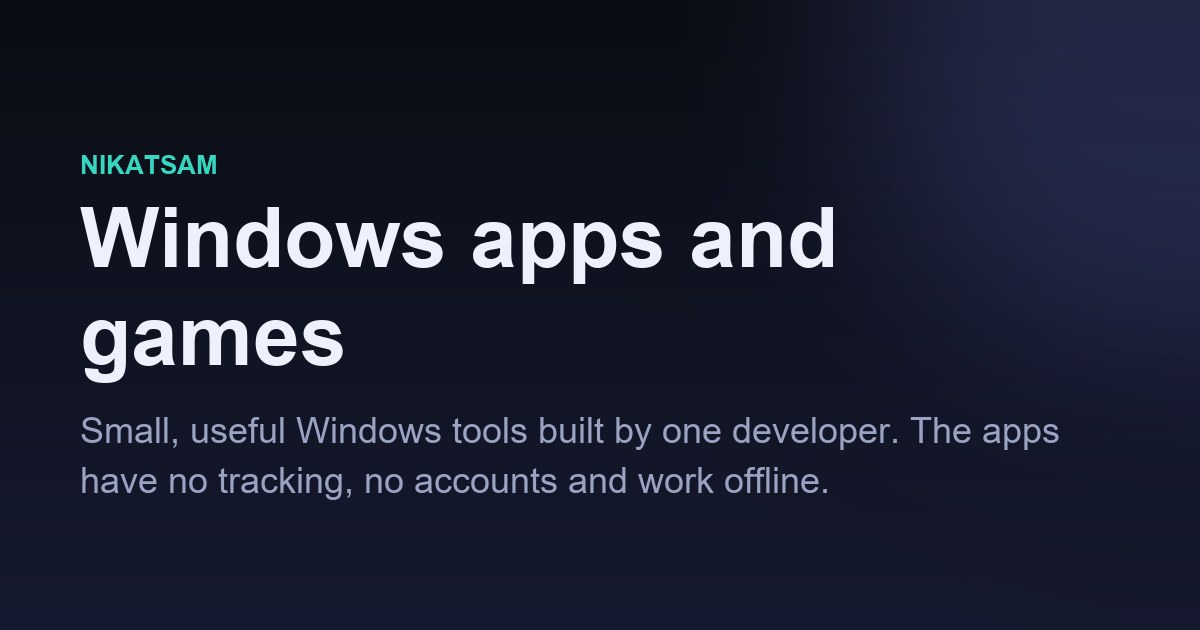
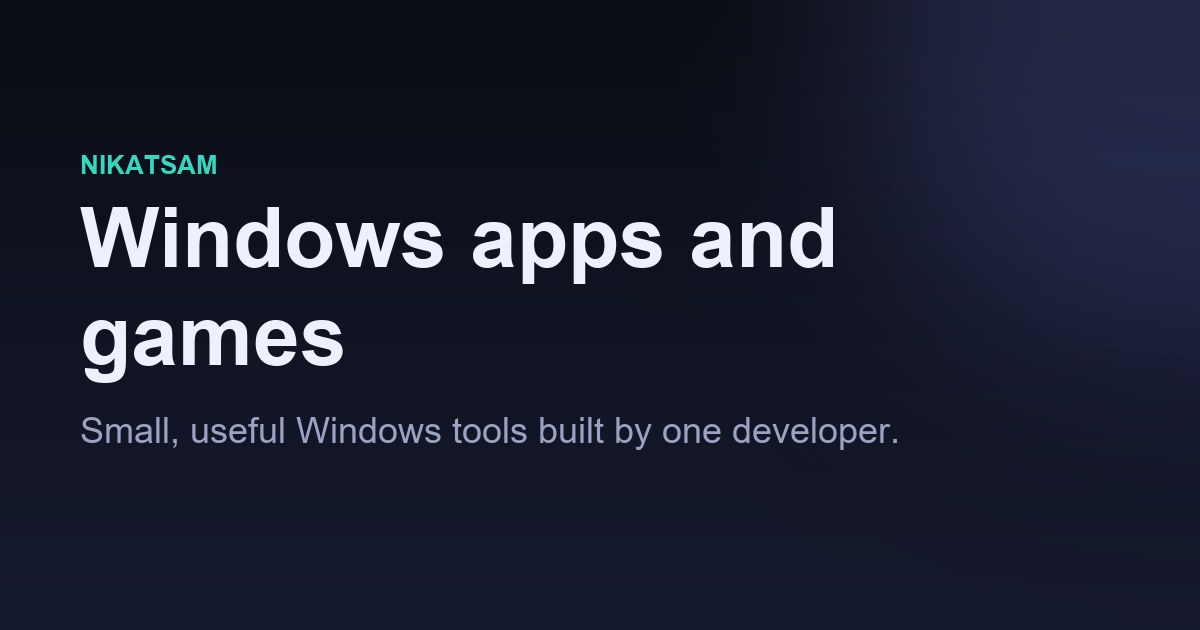
Tower Defence Riftward is live on the Microsoft Store; social images without privacy line

Changed region(s): [[0.0617, 0.7238, 0.6783, 0.7841], [0.74, 0.6635, 0.8942, 0.7238]]

diff --git a/index.html b/index.html
@@ -311,7 +311,7 @@
           <figure class="preview"><img src="assets/previews/tower-defence-riftward.webp" alt="Screenshot of the Tower Defence Riftward website" width="960" height="600" loading="lazy"></figure>
           <div class="card-top">
             <span class="badge">Game</span>
-            <span class="status soon">Coming to Store</span>
+            <span class="status live">Live</span>
           </div>
           <h3>Tower Defence Riftward</h3>
           <p class="tagline">A tower defence campaign of elemental sieges across four routes and sixty waves.</p>
@@ -472,13 +472,14 @@
     </dialog>
     <dialog class="project-dialog" id="dlg-tower-defence-riftward" aria-labelledby="dlg-tower-defence-riftward-title">
       <form method="dialog" class="dialog-close"><button class="btn btn-ghost" value="close">Close</button></form>
-      <p class="eyebrow">Game · <span class="status soon">Coming to Store</span></p>
+      <p class="eyebrow">Game · <span class="status live">Live</span></p>
       <h2 id="dlg-tower-defence-riftward-title">Tower Defence Riftward</h2>
       <p class="lead">Plan your defences across four routes, combine nine tower families and hold out through sixty escalating waves in a single-player campaign.</p>
       <p class="audience"><strong>Who it is for:</strong> For tower defence fans who want to hold the line against an elemental siege.</p>
       <h3>What it does</h3><ul class="facts"><li>A single-player campaign built around elemental towers</li><li>Choose from four routes</li><li>Nine families of towers to build and combine</li><li>Sixty waves of escalating attacks</li></ul>
       
       <div class="dialog-links">
+          <a class="btn btn-primary" href="https://apps.microsoft.com/detail/9N5G2QPG34F7">Microsoft Store</a>
           <a class="btn btn-ghost" href="https://nikatsam.github.io/WINGAME_TD_RIFTWARD_WEBSITE/">Visit website</a>
           <a class="btn btn-ghost" href="apps/tower-defence-riftward/">Full page</a>
           <a class="btn btn-ghost" href="https://github.com/nikatsam/WINGAME_TD_RIFTWARD_WEBSITE/issues/new?template=bug_report.md&title=Bug:%20">Report a bug</a>

diff --git a/apps/tower-defence-riftward/index.html b/apps/tower-defence-riftward/index.html
@@ -30,7 +30,8 @@
       "name": "Nikatsam",
       "url": "https://nikatsam.github.io/"
     },
-    "url": "https://nikatsam.github.io/apps/tower-defence-riftward/"
+    "url": "https://nikatsam.github.io/apps/tower-defence-riftward/",
+    "installUrl": "https://apps.microsoft.com/detail/9N5G2QPG34F7"
   }
   </script>
   <script type="application/ld+json">
@@ -72,14 +73,14 @@
       </ol>
     </nav>
     <p class="back"><a class="btn btn-ghost" href="../../#projects">&larr; Back to all projects</a></p>
-    <p class="eyebrow">Game · <span class="status soon">Coming to Store</span></p>
+    <p class="eyebrow">Game · <span class="status live">Live</span></p>
     <h1>Tower Defence Riftward</h1>
     <p class="lead">Plan your defences across four routes, combine nine tower families and hold out through sixty escalating waves in a single-player campaign.</p>
     <p class="audience"><strong>Who it is for:</strong> For tower defence fans who want to hold the line against an elemental siege.</p>
     <h2>What it does</h2><ul class="facts"><li>A single-player campaign built around elemental towers</li><li>Choose from four routes</li><li>Nine families of towers to build and combine</li><li>Sixty waves of escalating attacks</li></ul>
     
     <div class="cta-row">
-        
+        <a class="btn btn-primary" href="https://apps.microsoft.com/detail/9N5G2QPG34F7">Get it on Microsoft Store</a>
         <a class="btn btn-ghost" href="https://nikatsam.github.io/WINGAME_TD_RIFTWARD_WEBSITE/">Visit the website</a>
         
         <a class="btn btn-ghost" href="https://github.com/nikatsam/WINGAME_TD_RIFTWARD_WEBSITE/issues/new?template=bug_report.md&title=Bug:%20">Report a bug</a>

diff --git a/scripts/build-social.py b/scripts/build-social.py
@@ -77,7 +77,6 @@ def product_card(p):
     draw_text_block(draw, left, y + 26, body_lines, f_body, MUTED, 46)
 
     draw.text((left, H - 90), "Nikatsam", font=f_brand, fill=TEXT)
-    draw.text((left + 138, H - 88), "Apps: no tracking  ·  Offline first", font=f_label, fill=MUTED)
 
     # Preview on the right, framed with a rounded border
     preview = ROOT / "assets" / "previews" / f"{p['slug']}.webp"
@@ -100,7 +99,7 @@ def site_card(cfg):
     f_title = ImageFont.truetype(FONT_BOLD, 84)
     y = draw_text_block(draw, 80, 190, wrap(draw, "Windows apps and games", f_title, 1000), f_title, TEXT, 98)
     f_body = ImageFont.truetype(FONT, 36)
-    draw_text_block(draw, 80, y + 24, wrap(draw, "Small, useful Windows tools built by one developer. The apps have no tracking, no accounts and work offline.", f_body, 1000), f_body, MUTED, 50)
+    draw_text_block(draw, 80, y + 24, wrap(draw, "Small, useful Windows tools built by one developer.", f_body, 1000), f_body, MUTED, 50)
     return img
 
 
